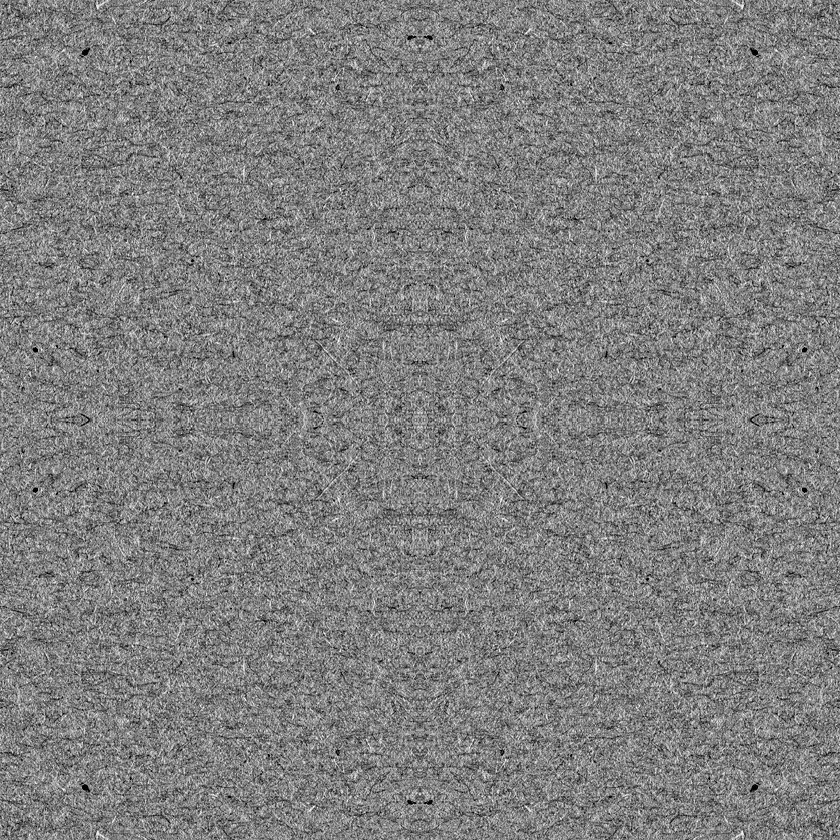
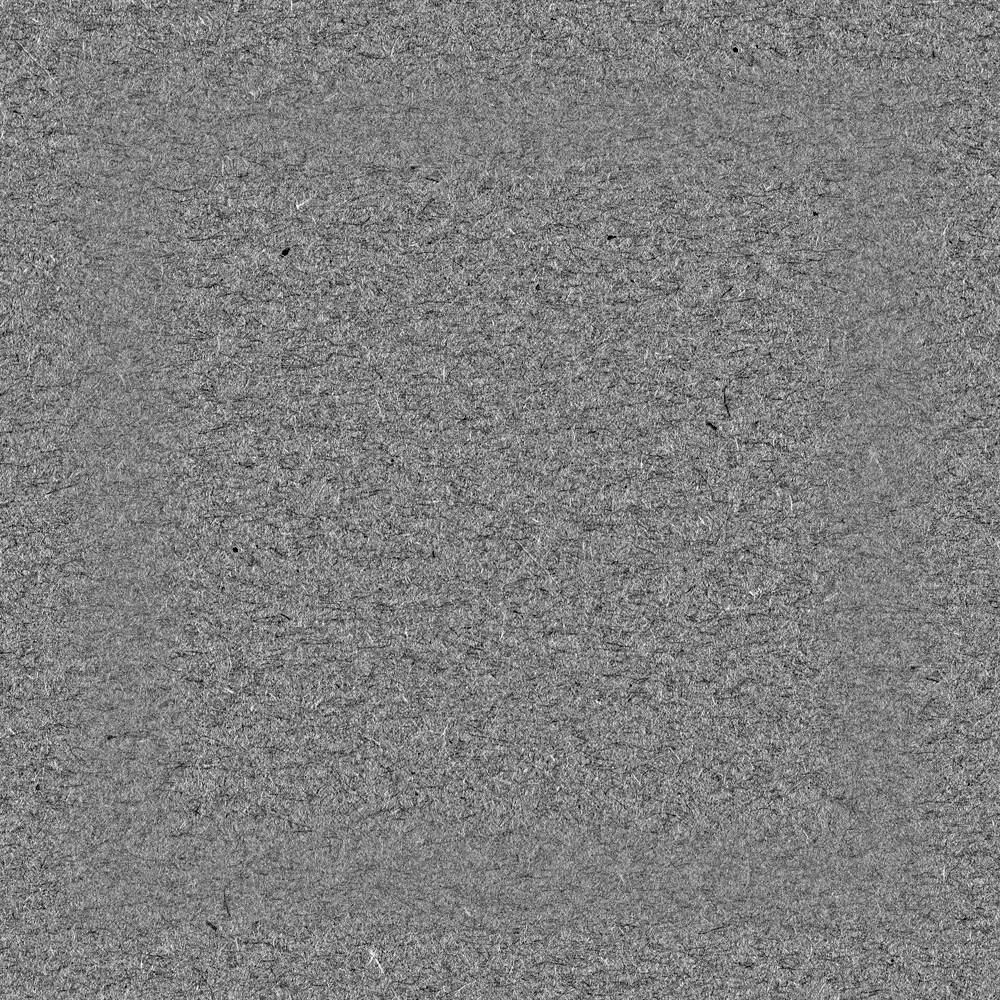
Seamless textures: generated 45° screen grain, large edge-blended paper tile (no mirroring)

diff --git a/index.html b/index.html
@@ -25,7 +25,8 @@ body::before{content:'';position:absolute;inset:0;pointer-events:none;
 /* paper fibre on the red: a neutral-grey scan, so soft-light adds grain without shifting the colours.
    It sits under the content; the tree carries its own lighter grain. */
 body::after{content:'';position:absolute;inset:0;pointer-events:none;z-index:0;mix-blend-mode:soft-light;opacity:.34;
-  background:url(tex/paper.webp) 0 0/840px 840px}button{font:inherit;color:inherit}
+  background:url(tex/paper.webp) 0 0/1000px 1000px}
+button{font:inherit;color:inherit}
 .wrap{position:relative;z-index:1;max-width:980px;margin:0 auto;padding:22px 16px 40px}
 
 /* header */
@@ -177,7 +178,7 @@ dialog::backdrop{background:rgba(96,14,2,.6)}
 .card{position:relative;padding:36px 34px 32px;background-size:100% 100%;filter:drop-shadow(6px 8px 0 var(--red-deep))}
 /* a light kraft grain on the pop-up card, cut to the ticket shape and kept under the text */
 .card::before{content:'';position:absolute;inset:0;z-index:-1;pointer-events:none;mix-blend-mode:multiply;opacity:.2;
-  background:url(tex/paper.webp) 0 0/560px 560px,#C99A62;background-blend-mode:soft-light;
+  background:url(tex/paper.webp) 0 0/700px 700px,#C99A62;background-blend-mode:soft-light;
   -webkit-mask:var(--tk) 0 0/100% 100% no-repeat;mask:var(--tk) 0 0/100% 100% no-repeat}
 .card .top{display:flex;justify-content:space-between;align-items:center;font:500 10px/1 var(--mono);letter-spacing:.14em;text-transform:uppercase;color:var(--red-ink);opacity:.6}
 .card .st.filled{color:var(--pine)}
@@ -492,7 +493,7 @@ function treeSVG(L){
     <path d="${d}" fill="url(#gGrain)" opacity=".55" style="mix-blend-mode:soft-light"/>
     ${boughs}
     <defs>
-      <pattern id="gGrain" width="200" height="200" patternUnits="userSpaceOnUse"><image href="tex/grain.webp" width="200" height="200"/></pattern>
+      <pattern id="gGrain" width="420" height="420" patternUnits="userSpaceOnUse"><image href="tex/grain.webp" width="420" height="420"/></pattern>
       ${rough('tree',1,1)}
       <pattern id="gDots" width="${14*g}" height="${14*g}" patternUnits="userSpaceOnUse"><rect width="${14*g}" height="${14*g}" fill="#17694B"/><circle cx="${4*g}" cy="${4*g}" r="${2.2*g}" fill="#C9CCF6"/><circle cx="${11*g}" cy="${11*g}" r="${2.2*g}" fill="#C9CCF6"/></pattern>
       <pattern id="gStripe" width="${12*g}" height="${12*g}" patternUnits="userSpaceOnUse" patternTransform="rotate(35)"><rect width="${12*g}" height="${12*g}" fill="#FFF4E2"/><rect width="${5*g}" height="${12*g}" fill="#E0361A"/></pattern>
@@ -832,7 +833,7 @@ function starPts(n,R,r,c=50){const p=[];for(let i=0;i<n*2;i++){const a=Math.PI*i
    (soft-light, so it lifts and darkens the colour itself), and edges nudged off-true so they read as printed.
    Everything is sized in screen px, so a 30px star and a 160px burst share the same grain. */
 function inked(id,shape,vb,w,a=.6){
-  const s=(200*vb/w).toFixed(1);   // the 400px scan drawn at 200 screen px: 1:1 on retina phones
+  const s=(420*vb/w).toFixed(1);   // the 840px tile drawn at 420 screen px: 1:1 on retina phones
   return `<pattern id="gp${id}" width="${s}" height="${s}" patternUnits="userSpaceOnUse"><image href="tex/grain.webp" width="${s}" height="${s}"/></pattern>`+
     shape.replace('/>',` fill="url(#gp${id})" style="mix-blend-mode:soft-light" opacity="${a}"/>`);
 }
